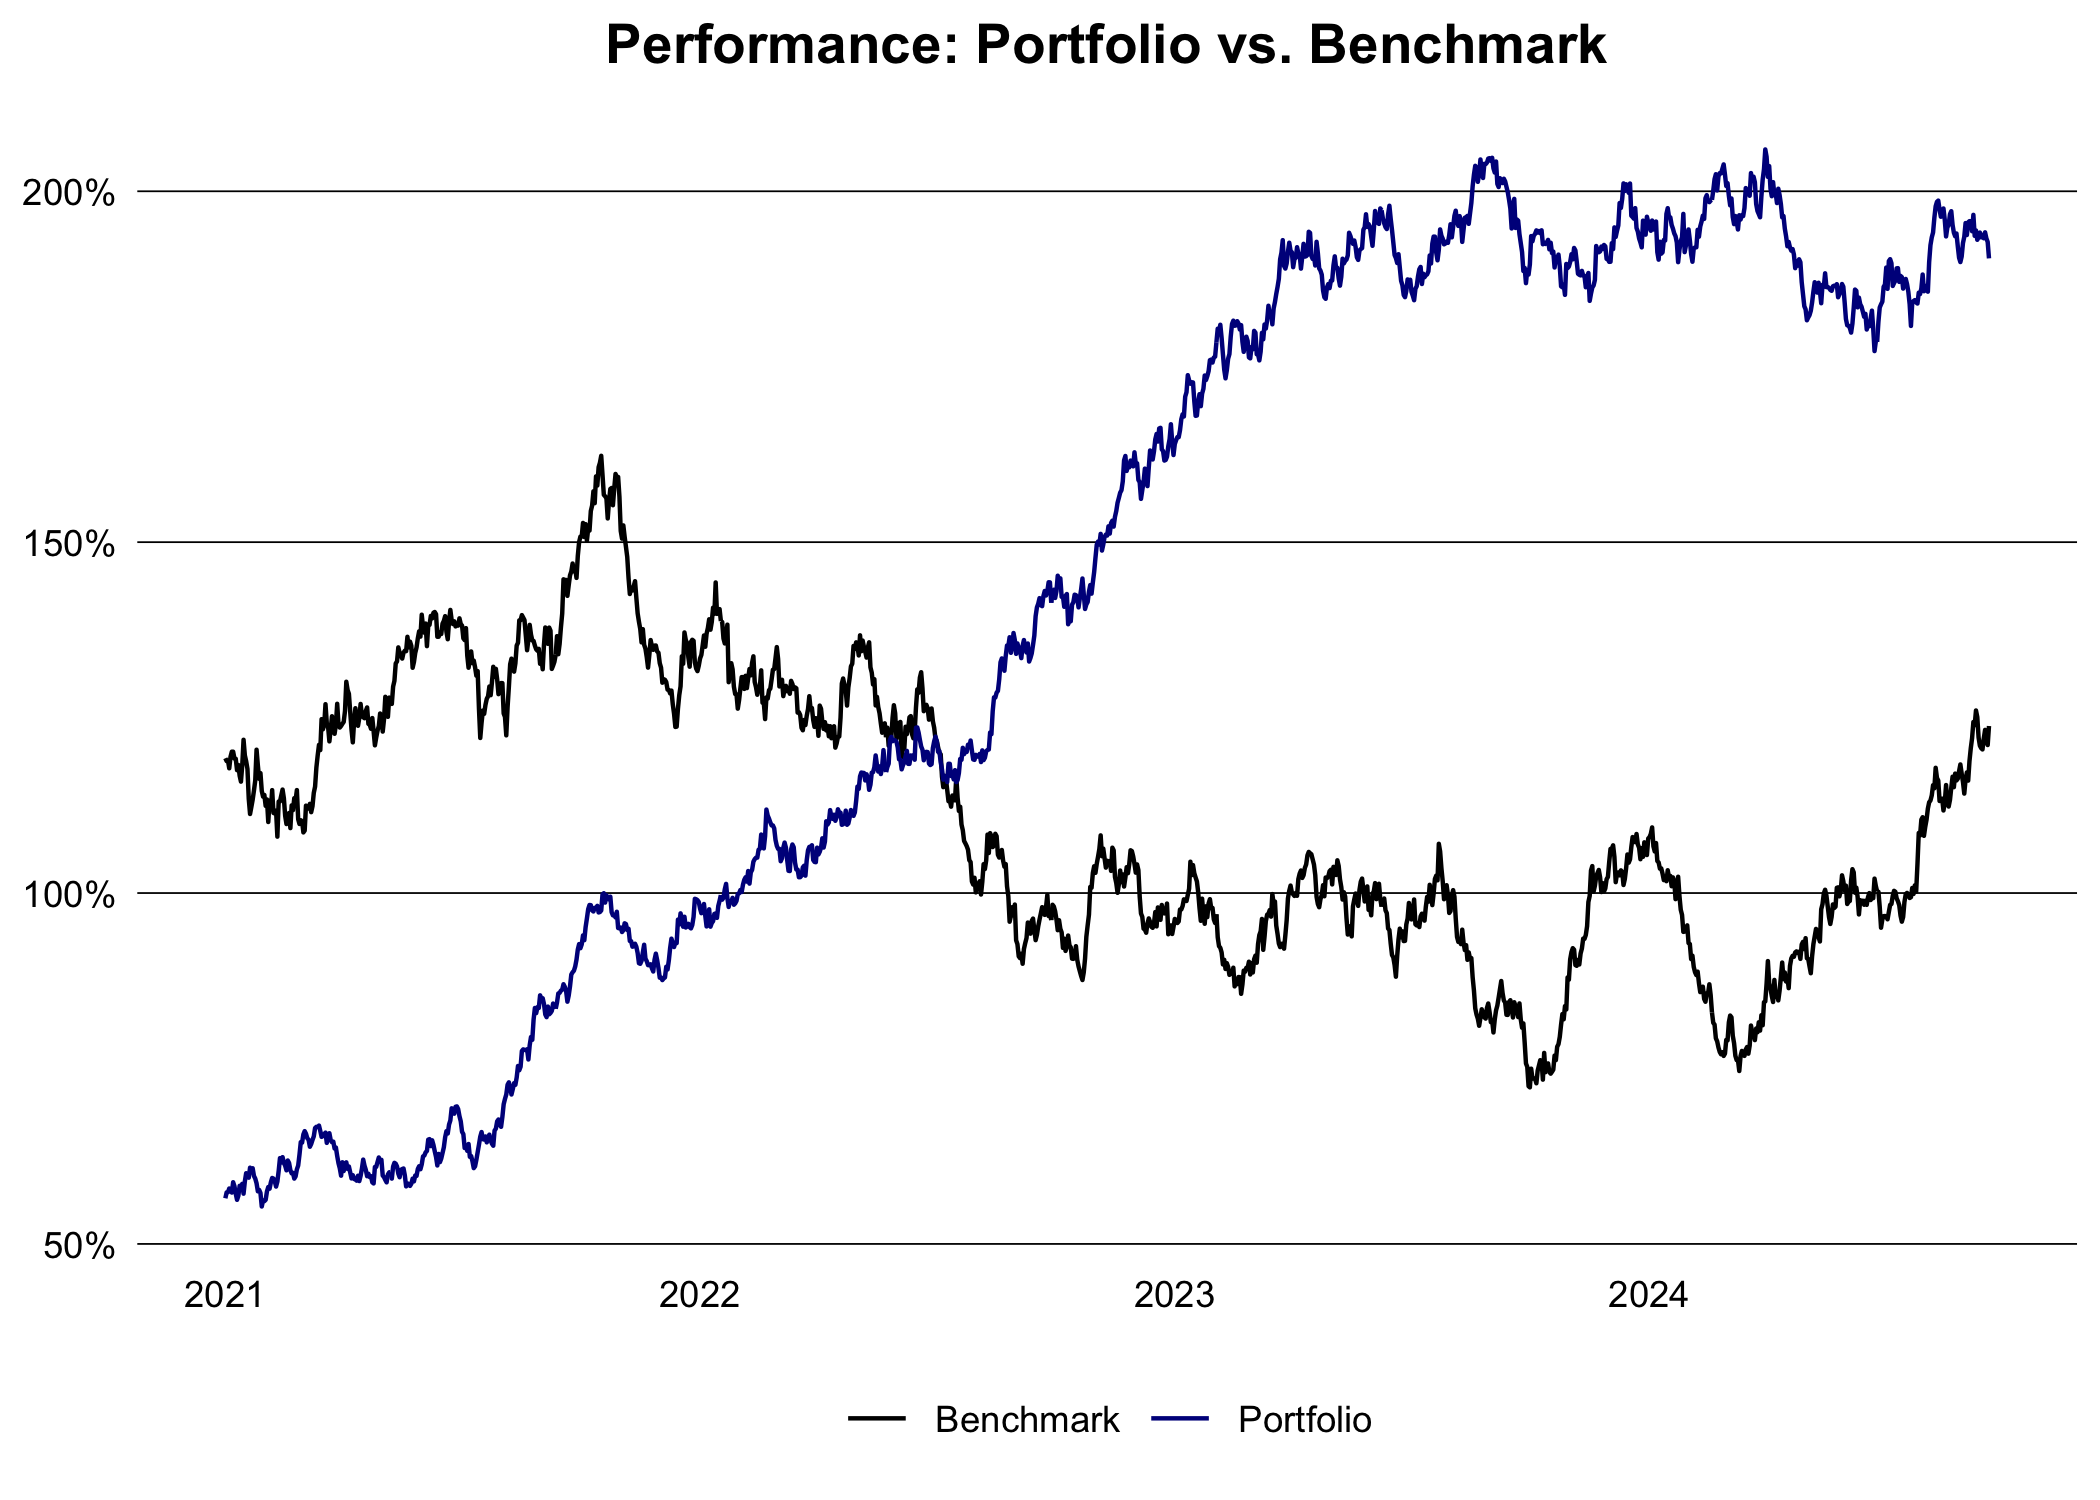
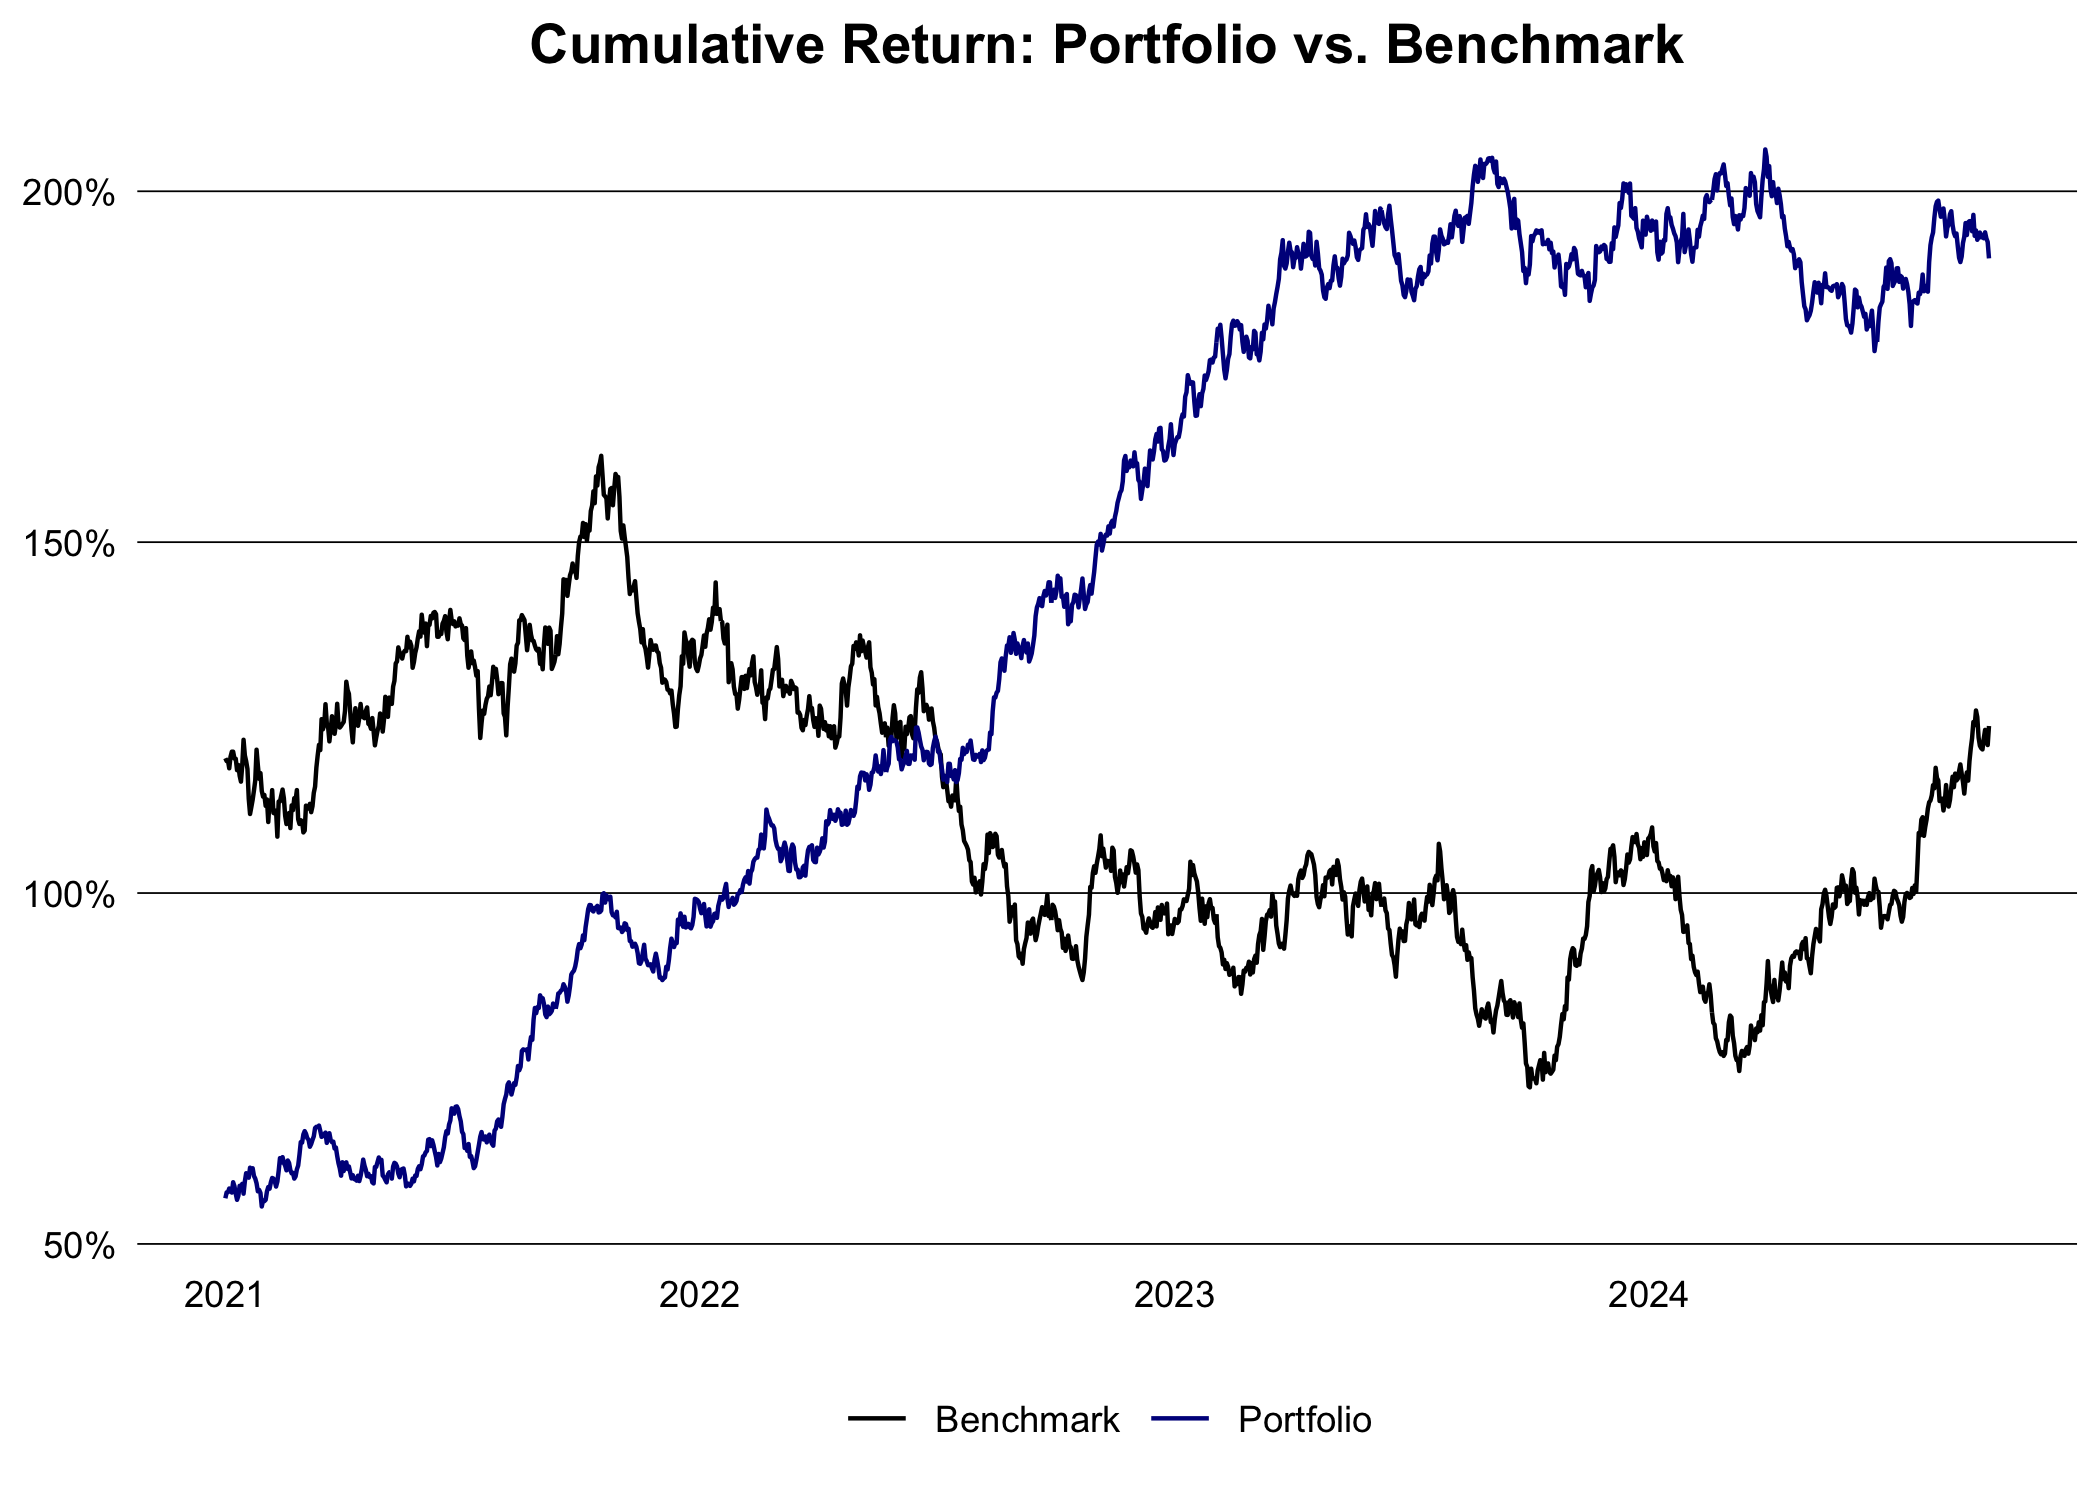
refactor: change the title

Changed region(s): [[0.2476, 0.0, 0.8048, 0.0613]]

diff --git a/README.md b/README.md
@@ -175,7 +175,7 @@ port |>
   ) +
   scale_color_manual(values = c("Portfolio" = "darkblue", "Benchmark" = "black")) +
   scale_y_continuous(labels = scales::percent_format(accuracy = 2L)) +
-  labs(title = "Performance: Portfolio vs. Benchmark")
+  labs(title = "Cumulative Return: Portfolio vs. Benchmark")
 ```
 
 ![](README_files/figure-commonmark/unnamed-chunk-7-1.png)
@@ -204,7 +204,12 @@ perf |>
   geom_line(aes(y = benchmark), color = "black") +
   scale_fill_manual(values = c("TRUE" = "green", "FALSE" = "red")) +
   scale_y_continuous(labels = scales::percent_format(accuracy = 2L)) +
-  labs(title = "Performance: Portfolio vs. Benchmark") +
+  labs(title = "Cumulative Return: Portfolio vs. Benchmark")
+```
+
+![](README_files/figure-commonmark/unnamed-chunk-8-1.png)
+
+``` r
   theme_minimal() +
   theme(
     plot.title = element_text(face = "bold", hjust = 0.5),
@@ -218,7 +223,291 @@ perf |>
   )
 ```
 
-![](README_files/figure-commonmark/unnamed-chunk-8-1.png)
+    List of 136
+     $ line                            :List of 6
+      ..$ colour       : chr "black"
+      ..$ linewidth    : num 0.5
+      ..$ linetype     : num 1
+      ..$ lineend      : chr "butt"
+      ..$ arrow        : logi FALSE
+      ..$ inherit.blank: logi TRUE
+      ..- attr(*, "class")= chr [1:2] "element_line" "element"
+     $ rect                            :List of 5
+      ..$ fill         : chr "white"
+      ..$ colour       : chr "black"
+      ..$ linewidth    : num 0.5
+      ..$ linetype     : num 1
+      ..$ inherit.blank: logi TRUE
+      ..- attr(*, "class")= chr [1:2] "element_rect" "element"
+     $ text                            :List of 11
+      ..$ family       : chr ""
+      ..$ face         : chr "plain"
+      ..$ colour       : chr "black"
+      ..$ size         : num 11
+      ..$ hjust        : num 0.5
+      ..$ vjust        : num 0.5
+      ..$ angle        : num 0
+      ..$ lineheight   : num 0.9
+      ..$ margin       : 'margin' num [1:4] 0points 0points 0points 0points
+      .. ..- attr(*, "unit")= int 8
+      ..$ debug        : logi FALSE
+      ..$ inherit.blank: logi TRUE
+      ..- attr(*, "class")= chr [1:2] "element_text" "element"
+     $ title                           : NULL
+     $ aspect.ratio                    : NULL
+     $ axis.title                      : list()
+      ..- attr(*, "class")= chr [1:2] "element_blank" "element"
+     $ axis.title.x                    :List of 11
+      ..$ family       : NULL
+      ..$ face         : NULL
+      ..$ colour       : NULL
+      ..$ size         : NULL
+      ..$ hjust        : NULL
+      ..$ vjust        : num 1
+      ..$ angle        : NULL
+      ..$ lineheight   : NULL
+      ..$ margin       : 'margin' num [1:4] 2.75points 0points 0points 0points
+      .. ..- attr(*, "unit")= int 8
+      ..$ debug        : NULL
+      ..$ inherit.blank: logi TRUE
+      ..- attr(*, "class")= chr [1:2] "element_text" "element"
+     $ axis.title.x.top                :List of 11
+      ..$ family       : NULL
+      ..$ face         : NULL
+      ..$ colour       : NULL
+      ..$ size         : NULL
+      ..$ hjust        : NULL
+      ..$ vjust        : num 0
+      ..$ angle        : NULL
+      ..$ lineheight   : NULL
+      ..$ margin       : 'margin' num [1:4] 0points 0points 2.75points 0points
+      .. ..- attr(*, "unit")= int 8
+      ..$ debug        : NULL
+      ..$ inherit.blank: logi TRUE
+      ..- attr(*, "class")= chr [1:2] "element_text" "element"
+     $ axis.title.x.bottom             : NULL
+     $ axis.title.y                    :List of 11
+      ..$ family       : NULL
+      ..$ face         : NULL
+      ..$ colour       : NULL
+      ..$ size         : NULL
+      ..$ hjust        : NULL
+      ..$ vjust        : num 1
+      ..$ angle        : num 90
+      ..$ lineheight   : NULL
+      ..$ margin       : 'margin' num [1:4] 0points 2.75points 0points 0points
+      .. ..- attr(*, "unit")= int 8
+      ..$ debug        : NULL
+      ..$ inherit.blank: logi TRUE
+      ..- attr(*, "class")= chr [1:2] "element_text" "element"
+     $ axis.title.y.left               : NULL
+     $ axis.title.y.right              :List of 11
+      ..$ family       : NULL
+      ..$ face         : NULL
+      ..$ colour       : NULL
+      ..$ size         : NULL
+      ..$ hjust        : NULL
+      ..$ vjust        : num 1
+      ..$ angle        : num -90
+      ..$ lineheight   : NULL
+      ..$ margin       : 'margin' num [1:4] 0points 0points 0points 2.75points
+      .. ..- attr(*, "unit")= int 8
+      ..$ debug        : NULL
+      ..$ inherit.blank: logi TRUE
+      ..- attr(*, "class")= chr [1:2] "element_text" "element"
+     $ axis.text                       :List of 11
+      ..$ family       : NULL
+      ..$ face         : NULL
+      ..$ colour       : chr "black"
+      ..$ size         : 'rel' num 0.8
+      ..$ hjust        : NULL
+      ..$ vjust        : NULL
+      ..$ angle        : NULL
+      ..$ lineheight   : NULL
+      ..$ margin       : NULL
+      ..$ debug        : NULL
+      ..$ inherit.blank: logi FALSE
+      ..- attr(*, "class")= chr [1:2] "element_text" "element"
+     $ axis.text.x                     :List of 11
+      ..$ family       : NULL
+      ..$ face         : NULL
+      ..$ colour       : NULL
+      ..$ size         : NULL
+      ..$ hjust        : NULL
+      ..$ vjust        : num 1
+      ..$ angle        : NULL
+      ..$ lineheight   : NULL
+      ..$ margin       : 'margin' num [1:4] 2.2points 0points 0points 0points
+      .. ..- attr(*, "unit")= int 8
+      ..$ debug        : NULL
+      ..$ inherit.blank: logi TRUE
+      ..- attr(*, "class")= chr [1:2] "element_text" "element"
+     $ axis.text.x.top                 :List of 11
+      ..$ family       : NULL
+      ..$ face         : NULL
+      ..$ colour       : NULL
+      ..$ size         : NULL
+      ..$ hjust        : NULL
+      ..$ vjust        : num 0
+      ..$ angle        : NULL
+      ..$ lineheight   : NULL
+      ..$ margin       : 'margin' num [1:4] 0points 0points 2.2points 0points
+      .. ..- attr(*, "unit")= int 8
+      ..$ debug        : NULL
+      ..$ inherit.blank: logi TRUE
+      ..- attr(*, "class")= chr [1:2] "element_text" "element"
+     $ axis.text.x.bottom              : NULL
+     $ axis.text.y                     :List of 11
+      ..$ family       : NULL
+      ..$ face         : NULL
+      ..$ colour       : NULL
+      ..$ size         : NULL
+      ..$ hjust        : num 1
+      ..$ vjust        : NULL
+      ..$ angle        : NULL
+      ..$ lineheight   : NULL
+      ..$ margin       : 'margin' num [1:4] 0points 2.2points 0points 0points
+      .. ..- attr(*, "unit")= int 8
+      ..$ debug        : NULL
+      ..$ inherit.blank: logi TRUE
+      ..- attr(*, "class")= chr [1:2] "element_text" "element"
+     $ axis.text.y.left                : NULL
+     $ axis.text.y.right               :List of 11
+      ..$ family       : NULL
+      ..$ face         : NULL
+      ..$ colour       : NULL
+      ..$ size         : NULL
+      ..$ hjust        : num 0
+      ..$ vjust        : NULL
+      ..$ angle        : NULL
+      ..$ lineheight   : NULL
+      ..$ margin       : 'margin' num [1:4] 0points 0points 0points 2.2points
+      .. ..- attr(*, "unit")= int 8
+      ..$ debug        : NULL
+      ..$ inherit.blank: logi TRUE
+      ..- attr(*, "class")= chr [1:2] "element_text" "element"
+     $ axis.text.theta                 : NULL
+     $ axis.text.r                     :List of 11
+      ..$ family       : NULL
+      ..$ face         : NULL
+      ..$ colour       : NULL
+      ..$ size         : NULL
+      ..$ hjust        : num 0.5
+      ..$ vjust        : NULL
+      ..$ angle        : NULL
+      ..$ lineheight   : NULL
+      ..$ margin       : 'margin' num [1:4] 0points 2.2points 0points 2.2points
+      .. ..- attr(*, "unit")= int 8
+      ..$ debug        : NULL
+      ..$ inherit.blank: logi TRUE
+      ..- attr(*, "class")= chr [1:2] "element_text" "element"
+     $ axis.ticks                      : list()
+      ..- attr(*, "class")= chr [1:2] "element_blank" "element"
+     $ axis.ticks.x                    : NULL
+     $ axis.ticks.x.top                : NULL
+     $ axis.ticks.x.bottom             : NULL
+     $ axis.ticks.y                    : NULL
+     $ axis.ticks.y.left               : NULL
+     $ axis.ticks.y.right              : NULL
+     $ axis.ticks.theta                : NULL
+     $ axis.ticks.r                    : NULL
+     $ axis.minor.ticks.x.top          : NULL
+     $ axis.minor.ticks.x.bottom       : NULL
+     $ axis.minor.ticks.y.left         : NULL
+     $ axis.minor.ticks.y.right        : NULL
+     $ axis.minor.ticks.theta          : NULL
+     $ axis.minor.ticks.r              : NULL
+     $ axis.ticks.length               : 'simpleUnit' num 2.75points
+      ..- attr(*, "unit")= int 8
+     $ axis.ticks.length.x             : NULL
+     $ axis.ticks.length.x.top         : NULL
+     $ axis.ticks.length.x.bottom      : NULL
+     $ axis.ticks.length.y             : NULL
+     $ axis.ticks.length.y.left        : NULL
+     $ axis.ticks.length.y.right       : NULL
+     $ axis.ticks.length.theta         : NULL
+     $ axis.ticks.length.r             : NULL
+     $ axis.minor.ticks.length         : 'rel' num 0.75
+     $ axis.minor.ticks.length.x       : NULL
+     $ axis.minor.ticks.length.x.top   : NULL
+     $ axis.minor.ticks.length.x.bottom: NULL
+     $ axis.minor.ticks.length.y       : NULL
+     $ axis.minor.ticks.length.y.left  : NULL
+     $ axis.minor.ticks.length.y.right : NULL
+     $ axis.minor.ticks.length.theta   : NULL
+     $ axis.minor.ticks.length.r       : NULL
+     $ axis.line                       : list()
+      ..- attr(*, "class")= chr [1:2] "element_blank" "element"
+     $ axis.line.x                     : NULL
+     $ axis.line.x.top                 : NULL
+     $ axis.line.x.bottom              : NULL
+     $ axis.line.y                     : NULL
+     $ axis.line.y.left                : NULL
+     $ axis.line.y.right               : NULL
+     $ axis.line.theta                 : NULL
+     $ axis.line.r                     : NULL
+     $ legend.background               : list()
+      ..- attr(*, "class")= chr [1:2] "element_blank" "element"
+     $ legend.margin                   : 'margin' num [1:4] 5.5points 5.5points 5.5points 5.5points
+      ..- attr(*, "unit")= int 8
+     $ legend.spacing                  : 'simpleUnit' num 11points
+      ..- attr(*, "unit")= int 8
+     $ legend.spacing.x                : NULL
+     $ legend.spacing.y                : NULL
+     $ legend.key                      : list()
+      ..- attr(*, "class")= chr [1:2] "element_blank" "element"
+     $ legend.key.size                 : 'simpleUnit' num 1.2lines
+      ..- attr(*, "unit")= int 3
+     $ legend.key.height               : NULL
+     $ legend.key.width                : NULL
+     $ legend.key.spacing              : 'simpleUnit' num 5.5points
+      ..- attr(*, "unit")= int 8
+     $ legend.key.spacing.x            : NULL
+     $ legend.key.spacing.y            : NULL
+     $ legend.frame                    : NULL
+     $ legend.ticks                    : NULL
+     $ legend.ticks.length             : 'rel' num 0.2
+     $ legend.axis.line                : NULL
+     $ legend.text                     :List of 11
+      ..$ family       : NULL
+      ..$ face         : NULL
+      ..$ colour       : NULL
+      ..$ size         : 'rel' num 0.8
+      ..$ hjust        : NULL
+      ..$ vjust        : NULL
+      ..$ angle        : NULL
+      ..$ lineheight   : NULL
+      ..$ margin       : NULL
+      ..$ debug        : NULL
+      ..$ inherit.blank: logi TRUE
+      ..- attr(*, "class")= chr [1:2] "element_text" "element"
+     $ legend.text.position            : NULL
+     $ legend.title                    : list()
+      ..- attr(*, "class")= chr [1:2] "element_blank" "element"
+     $ legend.title.position           : NULL
+     $ legend.position                 : chr "none"
+     $ legend.position.inside          : NULL
+     $ legend.direction                : NULL
+     $ legend.byrow                    : NULL
+     $ legend.justification            : chr "center"
+     $ legend.justification.top        : NULL
+     $ legend.justification.bottom     : NULL
+     $ legend.justification.left       : NULL
+     $ legend.justification.right      : NULL
+     $ legend.justification.inside     : NULL
+     $ legend.location                 : NULL
+     $ legend.box                      : NULL
+     $ legend.box.just                 : NULL
+     $ legend.box.margin               : 'margin' num [1:4] 0cm 0cm 0cm 0cm
+      ..- attr(*, "unit")= int 1
+     $ legend.box.background           : list()
+      ..- attr(*, "class")= chr [1:2] "element_blank" "element"
+     $ legend.box.spacing              : 'simpleUnit' num 11points
+      ..- attr(*, "unit")= int 8
+      [list output truncated]
+     - attr(*, "class")= chr [1:2] "theme" "gg"
+     - attr(*, "complete")= logi TRUE
+     - attr(*, "validate")= logi TRUE
 
 ``` r
 library(gt)
